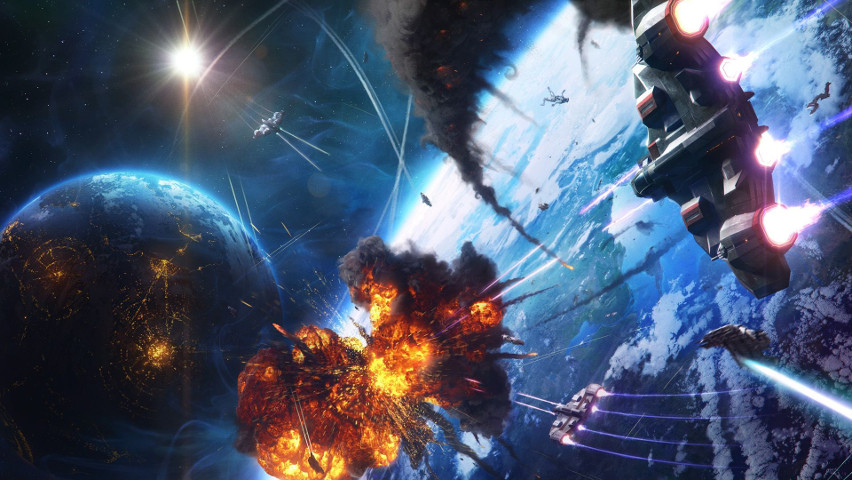
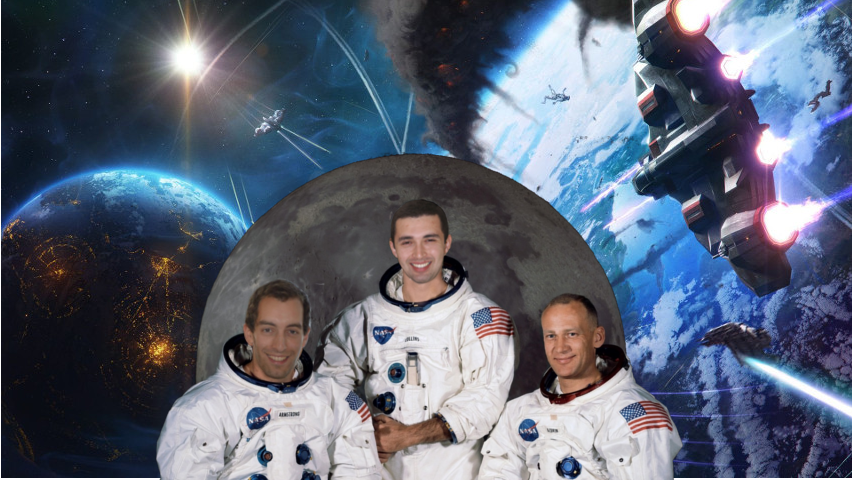
nueva portada y resultados

diff --git a/Visualizacion/main.py b/Visualizacion/main.py
@@ -199,7 +199,7 @@ class Estadisticas(Scene):
     def __init__(self, director, dict_players):
         Scene.__init__(self, director)
         # Informacion de escena
-        background_path=os.path.join("data", "background", "portada.jpg")
+        background_path=os.path.join("data", "background", "resultados.jpg")
         self.background=load_image(background_path)
 
         # Informacion del replay
